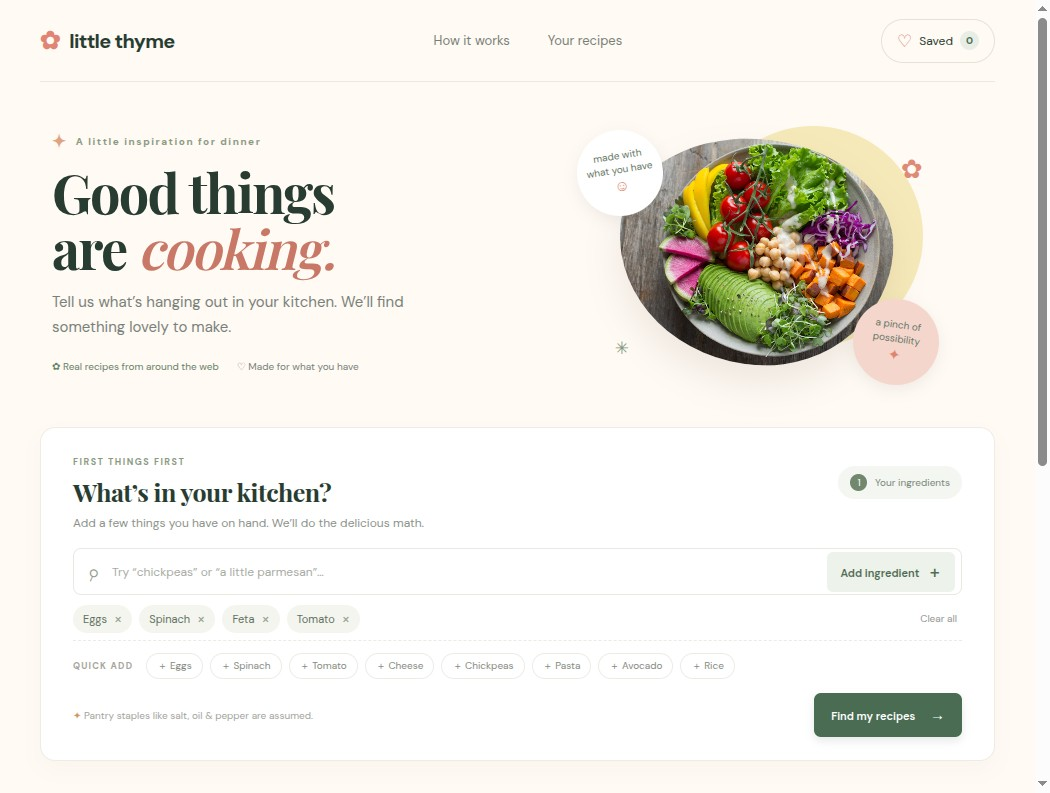
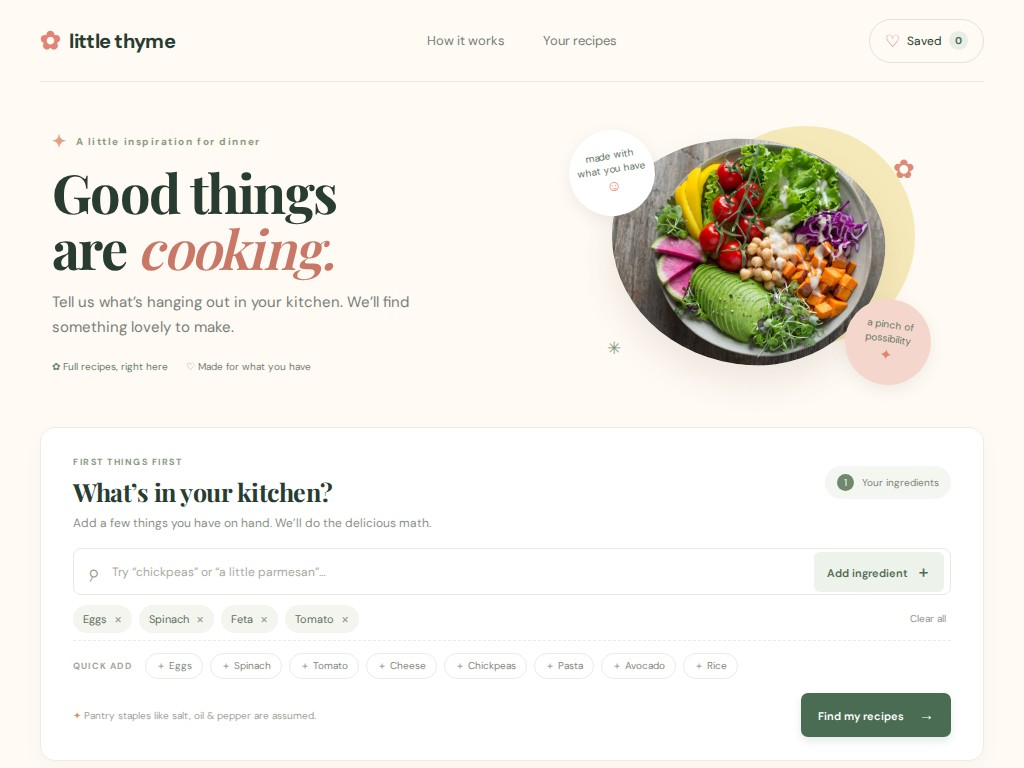
Publish static build for issue #1
Run: 43138295774
Attempt: 1
Generation: 5
Source: ac81175349999372f511e5edc5c541fa7a955e36

diff --git a/app.js b/app.js
@@ -5,11 +5,20 @@ const fallbackRecipes=[
  {id:'local-3',title:'Green goddess chickpea bowl',image:'https://images.unsplash.com/photo-1512621776951-a57141f2eefd?auto=format&fit=crop&w=700&q=80',time:'25 min',category:'Dinner',description:'A feel-good bowl with crisp greens, chickpeas and a bright lemony dressing.',ingredients:['chickpeas','spinach','tomato','lemon','yogurt'],steps:['Drain and rinse the chickpeas, then season with olive oil, salt and pepper.','Whisk yogurt with lemon juice, a little water and chopped herbs.','Layer greens, chickpeas and tomatoes in a bowl. Drizzle generously with dressing.'],url:'https://www.loveandlemons.com/chickpea-salad/'},
  {id:'local-4',title:'Easy garden omelette',image:'https://images.unsplash.com/photo-1510693206972-df098062cb71?auto=format&fit=crop&w=700&q=80',time:'12 min',category:'Quick & easy',description:'A fluffy, golden omelette that welcomes just about any veg in the crisper.',ingredients:['eggs','spinach','tomato','cheese','butter'],steps:['Beat eggs with a pinch of salt and pepper until combined.','Melt butter in a pan and cook the eggs gently, drawing the edges inward.','Add spinach, diced tomato and cheese. Fold in half and serve while warm.'],url:'https://www.bbcgoodfood.com/recipes/basic-omelette'},
  {id:'local-5',title:'Roasted tomato pasta',image:'https://images.unsplash.com/photo-1473093295043-cdd812d0e601?auto=format&fit=crop&w=700&q=80',time:'30 min',category:'Dinner',description:'A simple, comforting pasta with sweet tomatoes, garlic and a shower of parmesan.',ingredients:['tomato','pasta','garlic','olive oil','parmesan'],steps:['Roast chopped tomatoes and garlic with olive oil at 220°C / 425°F until jammy.','Meanwhile, cook pasta in well-salted water until just al dente.','Toss pasta with roasted tomatoes and a splash of pasta water. Finish with parmesan.'],url:'https://www.bbcgoodfood.com/recipes/roasted-tomato-sauce'},
- {id:'local-6',title:'Crispy chickpea salad',image:'https://images.unsplash.com/photo-1540420773420-3366772f4999?auto=format&fit=crop&w=700&q=80',time:'25 min',category:'Lunch',description:'Crunchy golden chickpeas make this fresh, colorful salad extra satisfying.',ingredients:['chickpeas','spinach','tomato','cucumber','lemon'],steps:['Pat chickpeas dry, toss with oil and paprika, then roast until crisp.','Chop the vegetables and toss with lemon juice and olive oil.','Top the salad with warm chickpeas and enjoy.'],url:'https://www.loveandlemons.com/chickpea-salad/'}
+ {id:'local-6',title:'Crispy chickpea salad',image:'https://images.unsplash.com/photo-1540420773420-3366772f4999?auto=format&fit=crop&w=700&q=80',time:'25 min',category:'Lunch',description:'Crunchy golden chickpeas make this fresh, colorful salad extra satisfying.',ingredients:['chickpeas','spinach','tomato','cucumber','lemon'],steps:['Pat chickpeas dry, toss with oil and paprika, then roast until crisp.','Chop the vegetables and toss with lemon juice and olive oil.','Top the salad with warm chickpeas and enjoy.'],url:'https://www.loveandlemons.com/chickpea-salad/'},
+  {id:'local-7',title:'Lemony butter bean skillet',image:'https://images.unsplash.com/photo-1512621776951-a57141f2eefd?auto=format&fit=crop&w=700&q=80',time:'20 min',category:'Dinner',description:'Creamy butter beans simmered with greens, garlic and bright lemon.',ingredients:['butter beans','spinach','garlic','lemon','olive oil'],steps:['Warm olive oil in a skillet over medium heat. Add sliced garlic and cook for about 30 seconds, just until fragrant.','Stir in drained butter beans with a splash of water or broth. Season with salt and black pepper and simmer for 5 minutes.','Fold in spinach and cook until wilted. Finish with lemon zest and juice, taste for seasoning, and serve with crusty bread.']},
+  {id:'local-8',title:'Golden veggie fried rice',image:'https://images.unsplash.com/photo-1512058564366-18510be2db19?auto=format&fit=crop&w=700&q=80',time:'25 min',category:'Dinner',description:'A quick, savory rice bowl that makes good use of leftover vegetables.',ingredients:['rice','eggs','carrot','peas','soy sauce'],steps:['For the best texture, use cold leftover rice. Break up any clumps with a fork.','Heat a little oil in a large pan. Scramble the eggs until just set, then transfer to a plate.','Add diced carrot and peas to the pan and stir-fry until tender. Add the rice and cook, stirring, until hot.','Return the eggs to the pan, add soy sauce and sliced scallions, and toss everything together. Taste and serve hot.']},
+  {id:'local-9',title:'Crispy potato & spinach hash',image:'https://images.unsplash.com/photo-1510693206972-df098062cb71?auto=format&fit=crop&w=700&q=80',time:'30 min',category:'Brunch',description:'Crisp-edged potatoes, tender greens and an egg make a cozy one-pan meal.',ingredients:['potatoes','spinach','eggs','onion','olive oil'],steps:['Dice potatoes into small cubes. Heat olive oil in a skillet, add potatoes and a pinch of salt, then cover and cook for 10 minutes, stirring now and then.','Uncover, add diced onion and cook until the potatoes are golden and tender, about 8 minutes more.','Stir in spinach until wilted. Make a well for each egg, crack them in, cover the pan and cook until the whites are set.','Season with black pepper and serve straight from the skillet.']},
+  {id:'local-10',title:'Creamy tomato chickpea curry',image:'https://images.unsplash.com/photo-1547592180-85f173990554?auto=format&fit=crop&w=700&q=80',time:'30 min',category:'Dinner',description:'A gentle, warming tomato curry with chickpeas and a swirl of yogurt.',ingredients:['chickpeas','tomato','onion','coconut milk','curry powder'],steps:['Warm oil in a saucepan. Add chopped onion and cook until soft, about 5 minutes.','Stir in curry powder and cook for 30 seconds. Add chopped tomatoes and simmer until they begin to break down.','Add drained chickpeas and coconut milk. Simmer gently for 15 minutes, stirring occasionally, until creamy.','Season to taste and serve with rice or flatbread. Add yogurt and fresh herbs if you like.']},
+  {id:'local-11',title:'Avocado & white bean toast',image:'https://images.unsplash.com/photo-1525351484163-7529414344d8?auto=format&fit=crop&w=700&q=80',time:'15 min',category:'Lunch',description:'A hearty, bright toast with creamy beans, ripe avocado and lemon.',ingredients:['avocado','white beans','bread','lemon','parsley'],steps:['Toast slices of bread until crisp and golden.','Mash the avocado with lemon juice, salt and black pepper. Roughly mash the drained white beans with olive oil and a pinch of salt.','Spread avocado over the toast, spoon on the beans and finish with chopped parsley and extra lemon.']},
+  {id:'local-12',title:'One-pot lemon parmesan pasta',image:'https://images.unsplash.com/photo-1473093295043-cdd812d0e601?auto=format&fit=crop&w=700&q=80',time:'25 min',category:'Dinner',description:'Silky, bright pasta with parmesan, lemon and a handful of greens.',ingredients:['pasta','parmesan','lemon','spinach','garlic'],steps:['Cook pasta in well-salted water until al dente. Before draining, reserve a mug of pasta water.','Warm olive oil in the pot and gently cook minced garlic until fragrant. Add spinach and stir until wilted.','Return pasta to the pot with lemon zest, lemon juice, grated parmesan and a splash of pasta water. Toss until glossy, adding more water as needed.','Season with black pepper and serve with extra parmesan.']},
+  {id:'local-13',title:'Cucumber tomato yogurt bowls',image:'https://images.unsplash.com/photo-1540420773420-3366772f4999?auto=format&fit=crop&w=700&q=80',time:'15 min',category:'Lunch',description:'Cool, crunchy vegetables over lemony yogurt with warm spiced chickpeas.',ingredients:['cucumber','tomato','yogurt','chickpeas','lemon'],steps:['Stir lemon juice, a drizzle of olive oil, salt and pepper into the yogurt. Spread it across two bowls.','Dice cucumber and tomato and arrange over the yogurt.','Warm chickpeas in a pan with olive oil, cumin and paprika until golden in spots. Spoon them into the bowls.','Finish with herbs, a little more lemon and toasted bread or pita.']},
+  {id:'local-14',title:'Sweet potato black bean tacos',image:'https://images.unsplash.com/photo-1552332386-f8dd00dc2f85?auto=format&fit=crop&w=700&q=80',time:'35 min',category:'Dinner',description:'Smoky roasted sweet potato and black beans tucked into warm tortillas.',ingredients:['sweet potato','black beans','tortillas','lime','avocado'],steps:['Heat the oven to 220°C / 425°F. Dice sweet potato, toss with oil, cumin, smoked paprika and salt, then roast for 25 minutes until tender and browned.','Warm drained black beans in a small pan with a splash of water and a pinch of salt.','Warm tortillas in a dry skillet. Fill with sweet potato and beans, then add avocado and a squeeze of lime.','Serve with yogurt, salsa or chopped cilantro if available.']},
+  {id:'local-15',title:'Mushroom garlic toast',image:'https://images.unsplash.com/photo-1509440159596-0249088772ff?auto=format&fit=crop&w=700&q=80',time:'20 min',category:'Lunch',description:'Savory mushrooms and garlic piled onto buttery toast with fresh herbs.',ingredients:['mushrooms','bread','garlic','butter','parsley'],steps:['Toast thick slices of bread until crisp.','Slice mushrooms. Melt butter in a skillet, add mushrooms and cook over medium-high heat until browned and their liquid has evaporated.','Add minced garlic and cook for 30 seconds. Season with salt and black pepper.','Spoon the mushrooms over toast and finish with chopped parsley.']}
 ];
 const quickItems=['Eggs','Spinach','Tomato','Cheese','Chickpeas','Pasta','Avocado','Rice'];
 const $=s=>document.querySelector(s);
-let ingredients=['eggs','spinach','feta','tomato'],recipes=[],saved=JSON.parse(localStorage.getItem('littleThymeSaved')||'[]'),showSaved=false,toastTimer;
+let ingredients=['eggs','spinach','feta','tomato'],recipes=[],saved=JSON.parse(localStorage.getItem('littleThymeSaved')||'[]'),showSaved=false,toastTimer,visibleCount=6;
 const norm=s=>s.toLowerCase().trim().replace(/s$/,'');
 function escapeHtml(s=''){return String(s).replace(/[&<>"']/g,c=>({'&':'&amp;','<':'&lt;','>':'&gt;','"':'&quot;',"'":'&#39;'}[c]));}
 function renderIngredients(){ $('#ingredientList').innerHTML=ingredients.map((x,i)=>`<span class="ingredient-chip">${escapeHtml(cap(x))}<button aria-label="Remove ${escapeHtml(x)}" data-remove="${i}">×</button></span>`).join('');document.querySelectorAll('[data-remove]').forEach(b=>b.onclick=()=>{ingredients.splice(+b.dataset.remove,1);renderIngredients()});}
@@ -17,23 +26,23 @@ function cap(s){return s.charAt(0).toUpperCase()+s.slice(1)}
 function renderQuick(){ $('#quickAdd').innerHTML=quickItems.map(x=>`<button class="quick-chip" data-quick="${x}">＋ ${x}</button>`).join('');document.querySelectorAll('[data-quick]').forEach(b=>b.onclick=()=>addIngredient(b.dataset.quick));}
 function addIngredient(value){const x=value.trim().replace(/\s+/g,' ');if(!x)return;if(ingredients.some(i=>norm(i)===norm(x))){notify(`${cap(x)} is already in your kitchen`);return}ingredients.push(x.toLowerCase());renderIngredients();$('#ingredientInput').value='';}
 function matchScore(r){const found=ingredients.filter(i=>r.ingredients?.some(x=>norm(x).includes(norm(i))||norm(i).includes(norm(x))));return {found:found.length,total:ingredients.length,percent:Math.round(found.length/Math.max(1,ingredients.length)*100)}}
-function renderCards(list){recipes=list;const shown=showSaved?list.filter(r=>saved.includes(String(r.id))):list;$('#recipeGrid').innerHTML=shown.length?shown.map((r,index)=>{const m=matchScore(r);return `<article class="recipe-card" data-card="${escapeHtml(String(r.id))}"><div class="recipe-image"><img src="${escapeHtml(r.image||'')}" alt="${escapeHtml(r.title)}" loading="lazy" onerror="this.src='https://images.unsplash.com/photo-1512621776951-a57141f2eefd?auto=format&fit=crop&w=700&q=80'"><span class="match-badge">${m.found?`${m.found} ingredient${m.found===1?'':'s'} match`:'A pantry-friendly idea'}</span><button class="save-button ${saved.includes(String(r.id))?'is-saved':''}" data-save="${escapeHtml(String(r.id))}" aria-label="${saved.includes(String(r.id))?'Unsave':'Save'} recipe">${saved.includes(String(r.id))?'♥':'♡'}</button></div><div class="card-content"><div class="card-meta"><span>${escapeHtml(r.category||'A good thing')}</span><span class="dot-sep"></span><span>${escapeHtml(r.time||'30 min')}</span></div><h3>${escapeHtml(r.title)}</h3><p>${escapeHtml(r.description||'A lovely recipe to make with things you have on hand.')}</p><div class="card-footer"><span class="ingredient-count">${m.found} of your ingredients</span><span class="view-recipe">Get cooking <span>→</span></span></div></div></article>`}).join(''):'<div class="empty-state"><strong>No saved recipes just yet</strong>Tap the little heart on anything that looks lovely.</div>';
- document.querySelectorAll('.recipe-card').forEach(c=>c.onclick=()=>{const recipe=recipes.find(r=>String(r.id)===c.dataset.card);if(recipe)openRecipe(recipe)});document.querySelectorAll('[data-save]').forEach(b=>b.onclick=e=>{e.stopPropagation();toggleSave(b.dataset.save)});$('#savedCount').textContent=saved.length;$('#savedToggle').classList.toggle('active',showSaved);}
+function renderCards(list){recipes=list;const filtered=showSaved?list.filter(r=>saved.includes(String(r.id))):list;const shown=filtered.slice(0,visibleCount);$('#recipeGrid').innerHTML=shown.length?shown.map((r,index)=>{const m=matchScore(r);return `<article class="recipe-card" data-card="${escapeHtml(String(r.id))}"><div class="recipe-image"><img src="${escapeHtml(r.image||'')}" alt="${escapeHtml(r.title)}" loading="lazy" onerror="this.src='https://images.unsplash.com/photo-1512621776951-a57141f2eefd?auto=format&fit=crop&w=700&q=80'"><span class="match-badge">${m.found?`${m.found} ingredient${m.found===1?'':'s'} match`:'A pantry-friendly idea'}</span><button class="save-button ${saved.includes(String(r.id))?'is-saved':''}" data-save="${escapeHtml(String(r.id))}" aria-label="${saved.includes(String(r.id))?'Unsave':'Save'} recipe">${saved.includes(String(r.id))?'♥':'♡'}</button></div><div class="card-content"><div class="card-meta"><span>${escapeHtml(r.category||'A good thing')}</span><span class="dot-sep"></span><span>${escapeHtml(r.time||'30 min')}</span></div><h3>${escapeHtml(r.title)}</h3><p>${escapeHtml(r.description||'A lovely recipe to make with things you have on hand.')}</p><div class="card-footer"><span class="ingredient-count">${m.found} of your ingredients</span><span class="view-recipe">Get cooking <span>→</span></span></div></div></article>`}).join(''):'<div class="empty-state"><strong>No saved recipes just yet</strong>Tap the little heart on anything that looks lovely.</div>';
+ document.querySelectorAll('.recipe-card').forEach(c=>c.onclick=()=>{const recipe=recipes.find(r=>String(r.id)===c.dataset.card);if(recipe)openRecipe(recipe)});document.querySelectorAll('[data-save]').forEach(b=>b.onclick=e=>{e.stopPropagation();toggleSave(b.dataset.save)});$('#savedCount').textContent=saved.length;$('#savedToggle').classList.toggle('active',showSaved);const more=$('#moreIdeas');more.disabled=shown.length>=filtered.length;more.textContent=more.disabled?'That’s all for now':'Show me more ideas →';}
 function toggleSave(id){id=String(id);saved=saved.includes(id)?saved.filter(x=>x!==id):[...saved,id];localStorage.setItem('littleThymeSaved',JSON.stringify(saved));renderCards(recipes);notify(saved.includes(id)?'Saved for a hungry day ♡':'Removed from your saved recipes');}
 function notify(msg){const t=$('#toast');t.textContent=msg;t.classList.add('show');clearTimeout(toastTimer);toastTimer=setTimeout(()=>t.classList.remove('show'),2100)}
 function setStatus(msg,loading=false){$('#statusText').textContent=msg;$('#statusLine').classList.toggle('is-loading',loading)}
 function titleForSearch(){if(!ingredients.length)return 'Let’s find <em>something good.</em>';return `Your fridge has <em>potential.</em>`}
-function fallbackSuggestions(){let ranked=fallbackRecipes.map(r=>({...r,_score:matchScore(r).found})).sort((a,b)=>b._score-a._score);if(!ingredients.length)return ranked.slice(0,3);const relevant=ranked.filter(r=>r._score>0);return (relevant.length?relevant:ranked).slice(0,3)}
-function mealIngredients(meal){return Array.from({length:20},(_,i)=>meal[`strIngredient${i+1}`]).filter(Boolean).map(x=>x.trim()).filter(Boolean)}
-function mealToRecipe(m){const ing=mealIngredients(m),steps=(m.strInstructions||'').split(/\r?\n/).map(x=>x.trim()).filter(x=>x&&!/^\d+$/.test(x));return {id:String(m.idMeal),title:m.strMeal,image:m.strMealThumb,category:m.strCategory||'From the web',time:'35 min',description:`A real ${m.strCategory?.toLowerCase()||'home-cooked'} recipe from ${m.strArea||'the kitchen'} — ready for your table.`,ingredients:ing,steps,url:m.strSource||`https://www.themealdb.com/meal/${m.idMeal}`}}
-async function onlineRecipes(){const keys=ingredients.slice(0,3).map(i=>i.trim().toLowerCase().replace(/\s+/g,'_'));const lists=await Promise.all(keys.map(async k=>{try{const res=await fetch(`${API}filter.php?i=${encodeURIComponent(k)}`);if(!res.ok)throw 0;return (await res.json()).meals||[]}catch{return []}}));const all=new Map();lists.flat().forEach(m=>all.set(m.idMeal,m));if(!all.size)return [];const candidates=[...all.values()].sort((a,b)=>{const ac=keys.filter(k=>a.strMeal.toLowerCase().includes(k.replaceAll('_',' '))).length;const bc=keys.filter(k=>b.strMeal.toLowerCase().includes(k.replaceAll('_',' '))).length;return bc-ac});const details=await Promise.all(candidates.slice(0,9).map(async m=>{try{const res=await fetch(`${API}lookup.php?i=${m.idMeal}`);return (await res.json()).meals?.[0]}catch{return null}}));return details.filter(Boolean).map(mealToRecipe).sort((a,b)=>matchScore(b).found-matchScore(a).found).slice(0,3)}
-async function findRecipes({surprise=false}={}){if(!ingredients.length){notify('Add an ingredient first, lovely!');$('#ingredientInput').focus();return}$('#resultsTitle').innerHTML=titleForSearch();$('#recipeGrid').innerHTML='<div class="loading">Finding a little inspiration…</div>';setStatus('Looking for real recipes from the web',true);$('#recipes').scrollIntoView({behavior:'smooth',block:'start'});let found=[];try{found=await onlineRecipes()}catch{}if(found.length){renderCards(found);setStatus(`Fresh from TheMealDB · matched to ${ingredients.slice(0,3).join(', ')}`);notify('Found some lovely ideas online ✦')}else{const picks=fallbackSuggestions();if(surprise&&picks.length>1)picks.unshift(picks.splice(Math.floor(Math.random()*picks.length),1)[0]);renderCards(picks);setStatus('A few ideas to get you started · more real recipes appear when the recipe service is reachable');} }
-async function openRecipe(r){const isOnline=!String(r.id).startsWith('local-');let steps=r.steps||[];if(isOnline&&!steps.length){try{const res=await fetch(`${API}lookup.php?i=${r.id}`);const m=(await res.json()).meals?.[0];if(m)steps=mealToRecipe(m).steps}catch{}}const m=matchScore(r);$('#modalContent').innerHTML=`<img class="modal-hero" src="${escapeHtml(r.image)}" alt="${escapeHtml(r.title)}"><div class="modal-body"><div class="section-kicker">${isOnline?'A REAL RECIPE FROM THE WEB':'A LITTLE THYME PICK'}</div><h2 id="modalTitle">${escapeHtml(r.title)}</h2><p>${escapeHtml(r.description||'Something delicious to make today.')}</p><div class="modal-facts"><span>◷ ${escapeHtml(r.time||'35 min')}</span><span>✿ ${m.found} of your ingredients</span><span>♡ ${escapeHtml(r.category||'Dinner')}</span></div><h3>What you’ll need</h3><ul>${(r.ingredients||[]).slice(0,14).map(x=>`<li>${escapeHtml(cap(x))}</li>`).join('')}</ul>${steps.length?`<h3>Let’s make it</h3><ol>${steps.slice(0,8).map(x=>`<li>${escapeHtml(x)}</li>`).join('')}</ol>`:''}<a class="online-link" href="${escapeHtml(r.url||'#')}" target="_blank" rel="noopener">${isOnline?'View original recipe online':'Find the full recipe online'} <span>↗</span></a></div>`;$('#recipeModal').classList.add('open');$('#recipeModal').setAttribute('aria-hidden','false');document.body.style.overflow='hidden';}
+function fallbackSuggestions(){return fallbackRecipes.map(r=>({...r,_score:matchScore(r).found})).sort((a,b)=>b._score-a._score)}
+function mealIngredients(meal){return Array.from({length:20},(_,i)=>{const ingredient=meal[`strIngredient${i+1}`]?.trim(),measure=meal[`strMeasure${i+1}`]?.trim();return ingredient?(measure&&measure!==' '?`${measure} ${ingredient}`:ingredient):''}).filter(Boolean)}
+function mealToRecipe(m){const steps=(m.strInstructions||'').split(/\r?\n+/).map(x=>x.trim()).filter(x=>x&&!/^\d+$/.test(x));return {id:String(m.idMeal),title:m.strMeal,image:m.strMealThumb,category:m.strCategory||'Dinner',time:'35 min',description:`A ${m.strArea?`${m.strArea.toLowerCase()} `:''}${m.strCategory?.toLowerCase()||'home-cooked'} favorite, ready for your table.`,ingredients:mealIngredients(m),steps}}
+async function onlineRecipes(){const keys=ingredients.slice(0,3).map(i=>i.trim().toLowerCase().replace(/\s+/g,'_'));const lists=await Promise.all(keys.map(async k=>{try{const res=await fetch(`${API}filter.php?i=${encodeURIComponent(k)}`);if(!res.ok)throw 0;return (await res.json()).meals||[]}catch{return []}}));const all=new Map();lists.flat().forEach(m=>all.set(m.idMeal,m));if(!all.size)return [];const candidates=[...all.values()].sort((a,b)=>{const ac=keys.filter(k=>a.strMeal.toLowerCase().includes(k.replaceAll('_',' '))).length;const bc=keys.filter(k=>b.strMeal.toLowerCase().includes(k.replaceAll('_',' '))).length;return bc-ac});const details=await Promise.all(candidates.slice(0,24).map(async m=>{try{const res=await fetch(`${API}lookup.php?i=${m.idMeal}`);return (await res.json()).meals?.[0]}catch{return null}}));return details.filter(Boolean).map(mealToRecipe).sort((a,b)=>matchScore(b).found-matchScore(a).found).slice(0,18)}
+async function findRecipes({surprise=false}={}){if(!ingredients.length){notify('Add an ingredient first, lovely!');$('#ingredientInput').focus();return}visibleCount=6;$('#resultsTitle').innerHTML=titleForSearch();$('#recipeGrid').innerHTML='<div class="loading">Finding a little inspiration…</div>';setStatus('Looking for real recipes from the web',true);$('#recipes').scrollIntoView({behavior:'smooth',block:'start'});let found=[];try{found=await onlineRecipes()}catch{}if(found.length){renderCards(found);setStatus(`Fresh from TheMealDB · matched to ${ingredients.slice(0,3).join(', ')}`);notify('Found some lovely ideas online ✦')}else{const picks=fallbackSuggestions();if(surprise&&picks.length>1){const chosen=Math.floor(Math.random()*picks.length);picks.push(...picks.splice(0,chosen));}renderCards(picks);setStatus('A few ideas to get you started · more real recipes appear when the recipe service is reachable');} }
+async function openRecipe(r){const isOnline=!String(r.id).startsWith('local-');let steps=r.steps||[];if(isOnline&&!steps.length){try{const res=await fetch(`${API}lookup.php?i=${r.id}`);const m=(await res.json()).meals?.[0];if(m){const full=mealToRecipe(m);steps=full.steps;r.ingredients=full.ingredients}}catch{}}const m=matchScore(r);$('#modalContent').innerHTML=`<img class="modal-hero" src="${escapeHtml(r.image)}" alt="${escapeHtml(r.title)}"><div class="modal-body"><div class="section-kicker">${isOnline?'READY TO MAKE AT HOME':'A LITTLE THYME PICK'}</div><h2 id="modalTitle">${escapeHtml(r.title)}</h2><p>${escapeHtml(r.description||'Something delicious to make today.')}</p><div class="modal-facts"><span>◷ ${escapeHtml(r.time||'35 min')}</span><span>✿ ${m.found} of your ingredients</span><span>♡ ${escapeHtml(r.category||'Dinner')}</span></div><h3>What you’ll need</h3><ul>${(r.ingredients||[]).map(x=>`<li>${escapeHtml(cap(x))}</li>`).join('')}</ul>${steps.length?`<h3>Let’s make it</h3><ol>${steps.map(x=>`<li>${escapeHtml(x)}</li>`).join('')}</ol>`:'<p>Full cooking instructions aren’t available for this recipe yet.</p>'}</div>`;$('#recipeModal').classList.add('open');$('#recipeModal').setAttribute('aria-hidden','false');document.body.style.overflow='hidden';}
 function closeModal(){ $('#recipeModal').classList.remove('open');$('#recipeModal').setAttribute('aria-hidden','true');document.body.style.overflow='';}
 $('#ingredientForm').addEventListener('submit',e=>{e.preventDefault();addIngredient($('#ingredientInput').value)});
 $('#ingredientInput').addEventListener('keydown',e=>{if(e.key==='Enter'){e.preventDefault();addIngredient(e.target.value)}});
 $('#clearIngredients').onclick=()=>{ingredients=[];renderIngredients()};
-$('#findRecipes').onclick=()=>findRecipes();$('#surpriseButton').onclick=()=>findRecipes({surprise:true});$('#moreIdeas').onclick=()=>{if(recipes.length){const pool=fallbackRecipes.filter(r=>!recipes.some(x=>x.id===r.id));renderCards(pool.length?pool.slice(0,3):fallbackSuggestions());setStatus('More ideas from your kitchen ✦')}else findRecipes()};
+$('#findRecipes').onclick=()=>findRecipes();$('#surpriseButton').onclick=()=>findRecipes({surprise:true});$('#moreIdeas').onclick=()=>{visibleCount+=6;renderCards(recipes);setStatus(`Showing ${Math.min(visibleCount,recipes.length)} of ${recipes.length} recipes ✦`)};
 $('#savedToggle').onclick=()=>{showSaved=!showSaved;$('#resultsTitle').innerHTML=showSaved?'Your saved <em>good things.</em>':titleForSearch();setStatus(showSaved?'Recipes you saved for later':'A few ideas to get you started');renderCards(recipes)};
 document.querySelectorAll('[data-close]').forEach(x=>x.onclick=closeModal);document.addEventListener('keydown',e=>{if(e.key==='Escape')closeModal()});
 renderIngredients();renderQuick();recipes=fallbackSuggestions();renderCards(recipes);

diff --git a/index.html b/index.html
@@ -25,7 +25,7 @@
           <div class="eyebrow"><span class="sparkle">✦</span> A little inspiration for dinner</div>
           <h1>Good things<br>are <em>cooking.</em></h1>
           <p>Tell us what’s hanging out in your kitchen. We’ll find something lovely to make.</p>
-          <div class="intro-notes"><span>✿ Real recipes from around the web</span><span>♡ Made for what you have</span></div>
+          <div class="intro-notes"><span>✿ Full recipes, right here</span><span>♡ Made for what you have</span></div>
         </div>
         <div class="hero-art" aria-label="A colorful bowl of food">
           <div class="art-sun"></div>
